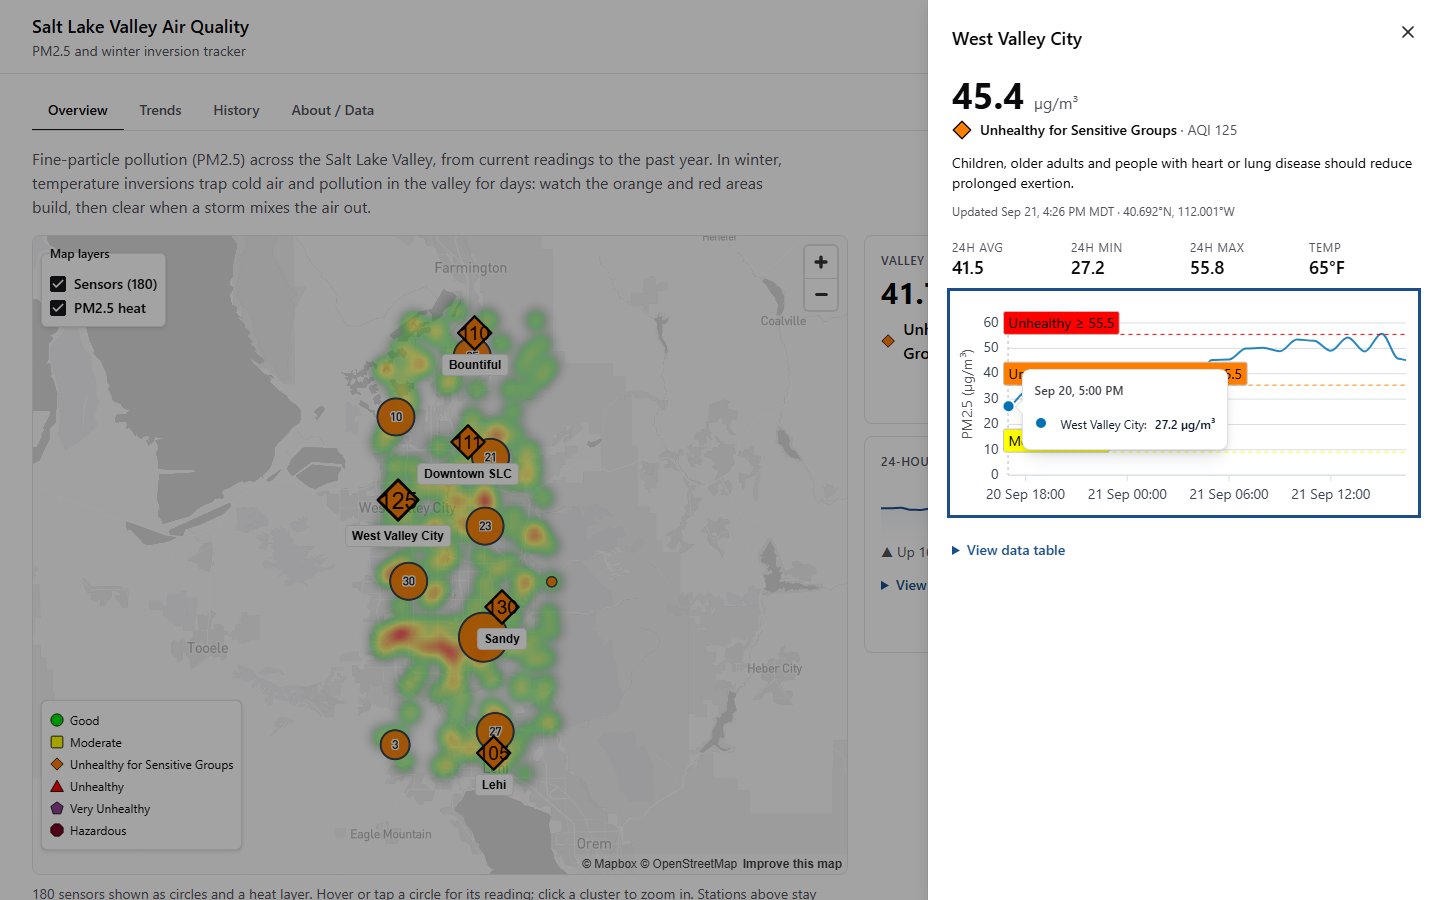
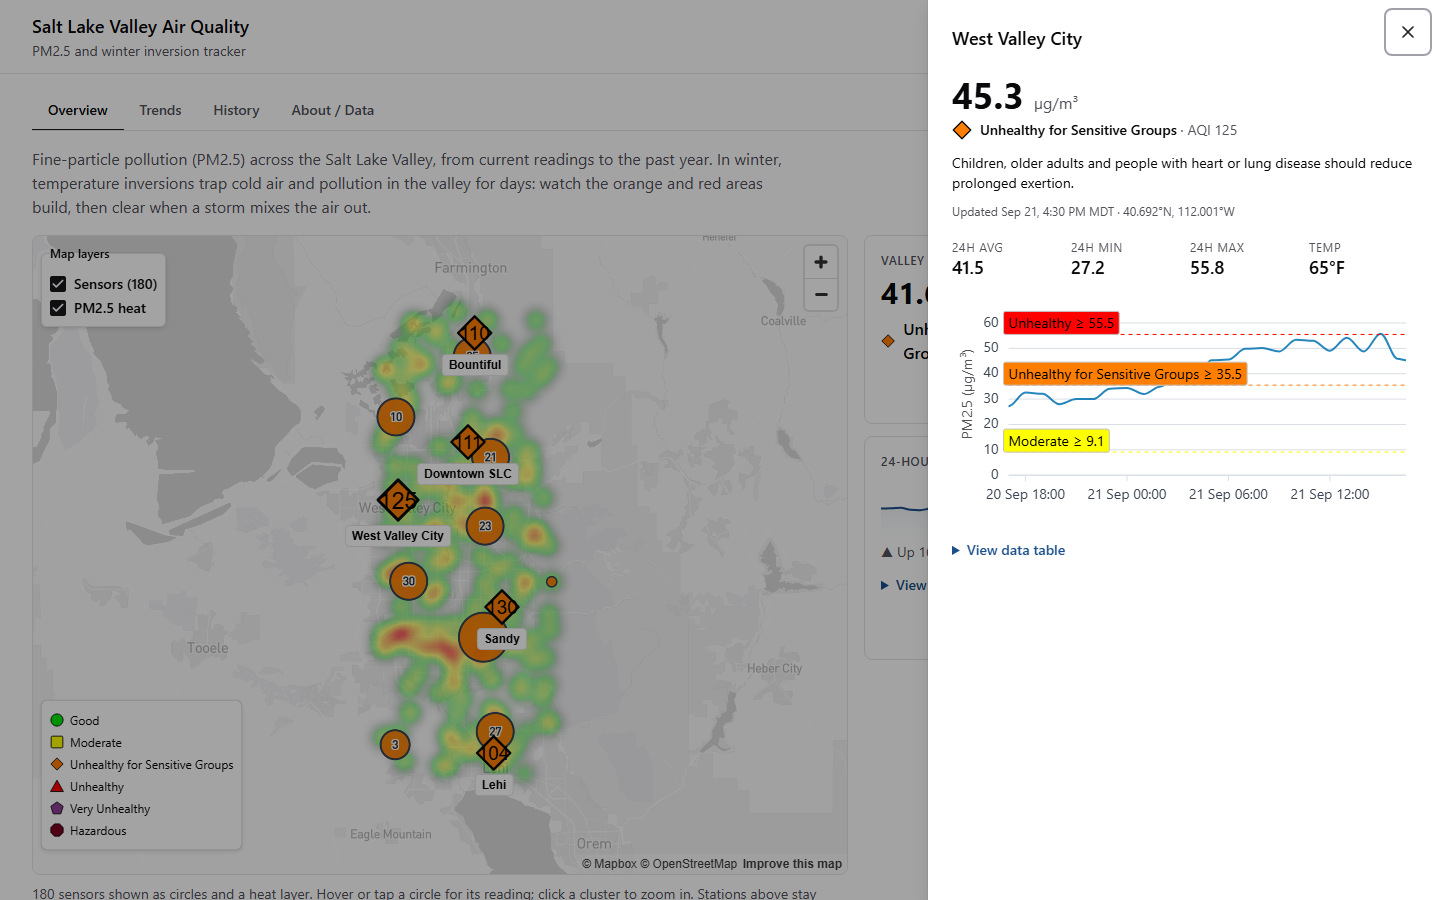
Add screenshots, audit results, and README updates
- docs/screenshots: overview (inversion demo, dark, live), station
  drawer, trends, history, and mobile, captured from the deployed site
  (?demo data for the inversion story, one real-data shot)
- README: screenshot gallery, ?demo link, Lighthouse before/after
  (mobile 44 -> 73-79, desktop 99 -> 100, accessibility 98 -> 100),
  axe-core results across 11 states (5 rule types -> 0), what the audit
  does not prove, updated bundle table and readiness status

diff --git a/README.md b/README.md
@@ -6,11 +6,50 @@ A React + TypeScript dashboard for current and historical PM2.5 across the Salt 
 winter inversion episodes. It runs out of the box on keyless data (Open-Meteo) or fully offline on
 inversion-shaped fixtures.
 
-**Live demo:** https://slc-air-quality-tracker.vercel.app (real PurpleAir sensors via a server-side proxy)
+**Live:** https://slc-air-quality-tracker.vercel.app (real PurpleAir sensors via a server-side proxy)
+· **Winter inversion demo:** https://slc-air-quality-tracker.vercel.app/?demo (simulated data, so the app's core
+story is visible in any season; the header shows a "Demo data" badge and a link back to live data)
 
 **Views:** Overview (map, KPI cards, station drawer) · Trends (Apex time series, range + station filters, live
 polling) · History (Plotly: calendar heatmap, monthly box plot, PM2.5-vs-temperature scatter) · About/Data
 (sources, methodology, AQI legend).
+
+## Screenshots
+
+Captured from the deployed site. All but the last desktop shot use the `?demo` data (a multi-day inversion that
+builds, clears, and builds again, plus 180 simulated sensors); the "live" shot is real PurpleAir data.
+
+**Overview: map layers, KPI cards.** A GeoJSON source with clustering and a heatmap layer, colored by AQI category;
+station markers are real buttons.
+
+![Overview with the inversion demo: clustered sensor layer, heatmap, station markers and KPI cards](docs/screenshots/overview-inversion.png)
+
+**Station drawer.** Opens from a marker (or the table), with 24-hour stats and an Apex chart with AQI guides.
+
+![Station drawer with details and a 24 hour chart](docs/screenshots/station-drawer.png)
+
+**Trends.** Apex time series: an inversion building, clearing, and building again (dashed lines mark AQI categories).
+
+![Trends view with a 7 day multi-station PM2.5 chart](docs/screenshots/trends.png)
+
+**History (Plotly).** Calendar heatmap, monthly box plot, and PM2.5 vs. temperature.
+
+![History view with a calendar heatmap, box plot and scatter](docs/screenshots/history.png)
+
+**Dark mode.** One token set drives Chakra, Apex, Plotly and the Mapbox basemap.
+
+![Overview in dark mode](docs/screenshots/overview-dark.png)
+
+**Live data.** Real PurpleAir sensors (in September the valley is mostly "Good").
+
+![Overview with live PurpleAir data](docs/screenshots/overview-live.png)
+
+**Mobile.**
+
+<p>
+  <img src="docs/screenshots/mobile-overview.png" alt="Mobile overview with the map and layers" width="280">
+  <img src="docs/screenshots/mobile-drawer.png" alt="Mobile station drawer as a bottom sheet" width="280">
+</p>
 
 ## Setup
 
@@ -78,23 +117,26 @@ src/
   the AQI number, the legend and tables show the category name, and the Plotly scatter uses matching marker
   symbols per category.
 - **Accessibility.** Skip link, tab semantics with keyboard navigation, focus-visible rings, labelled markers
-  (station, value, AQI, category), `role="img"` + labels on charts, a collapsible data table under every chart,
+  (station, value, AQI, category), labelled `role="group"` wrappers on charts (an image role can't contain their focusable toolbars), a collapsible data table under every chart,
   and focus returned to the marker when the drawer closes.
 - **Time zones.** Charts show Mountain Time for every viewer (`lib/format.ts` re-expresses instants as Mountain
   wall-clock time for libraries that only do UTC/local), and daily aggregation uses Mountain-time days.
 
 ### Bundle size (production build, gzip)
 
-| Chunk                                | Raw        | Gzip      | Loaded                         |
-| ------------------------------------ | ---------- | --------- | ------------------------------ |
-| App shell (React, Chakra, Apex, app) | 1,251 kB   | 367 kB    | Initial                        |
-| Chakra system                        | 274 kB     | 72 kB     | Initial                        |
-| `HistoryView` (Plotly cartesian)     | 1,449 kB   | 478 kB    | On opening History             |
-| `mapbox-gl`                          | 1,839 kB   | 510 kB    | On Overview, only with a token |
-| `MapPanel` + CSS                     | 29 + 49 kB | 11 + 6 kB | On Overview, only with a token |
+| Chunk                                  | Raw        | Gzip      | Loaded                                    |
+| -------------------------------------- | ---------- | --------- | ----------------------------------------- |
+| App shell (React, TanStack Query, app) | 310 kB     | 97 kB     | Initial                                   |
+| Chakra UI + theme                      | 268 kB     | 70 kB     | Initial                                   |
+| `react-apexcharts` (ApexCharts)        | 944 kB     | 270 kB    | Right after first paint (lazy)            |
+| `mapbox-gl`                            | 1,839 kB   | 510 kB    | Prefetched on Overview, only with a token |
+| `MapPanel` + CSS                       | 29 + 49 kB | 11 + 6 kB | Prefetched on Overview, only with a token |
+| `HistoryView` (Plotly cartesian)       | 1,449 kB   | 478 kB    | On opening History                        |
 
-Initial JS is about 439 kB gzipped. Plotly and Mapbox are each lazy-loaded via `React.lazy`. Apex and Chakra are
-the remaining bulk of the initial load; see "What I'd do next".
+The initial JavaScript is about **170 kB gzipped** (it was ~439 kB before Apex was lazy-loaded, which cut the entry
+bundle from 1,251 kB to 310 kB). Apex, Mapbox and Plotly are each `React.lazy`-loaded; Mapbox is prefetched as soon as
+the Overview mounts so its download overlaps the data requests instead of waiting for them. Note that Vercel returns
+403 for `.map` files, so production source maps aren't served.
 
 ### PurpleAir adapter
 
@@ -256,7 +298,7 @@ setup). The whole History view is `React.lazy`-loaded, so Plotly is only downloa
 - Built-in zoom, pan, box-select, hover and the modebar are used as-is, as specified, rather than reimplemented.
 - The scatter uses **shape plus color** per category (circle, square, diamond, ...), reusing the color-blind-safe
   encoding from the map markers.
-- Every chart has `role="img"` with a text summary and a data-table fallback.
+- Every chart has a labelled `role="group"` wrapper with a text summary and a data-table fallback.
 
 **Benefits:** statistical chart types out of the box, rich hover templates, and powerful interaction (zoom, pan,
 select) with no custom code. **Limits:** heavier and slower to re-render than Apex, so it's used for static
@@ -285,7 +327,7 @@ analysis rather than live data.
 
 ## Testing
 
-`npm test` runs Vitest + React Testing Library (133 tests):
+`npm test` runs Vitest + React Testing Library (134 tests):
 
 - AQI category boundaries (including EPA one-decimal truncation), AQI interpolation, and color/shape uniqueness
 - Mock provider: determinism, station filtering, inversion shape (buildup, peak, clearing), temperature coverage
@@ -311,6 +353,64 @@ supports, also recorded in `engines`):
 - Tests are hermetic (no keys or tokens needed), and the build needs no secrets.
 - **Recommended repo setting:** in GitHub, enable branch protection on `main` and require the `Check (Node 22)` and
   `Check (Node 24)` checks, so nothing merges red.
+
+## Performance and accessibility audit
+
+Measured on the deployed site with Lighthouse 13.5 (headless Chrome, default throttling; the mobile profile
+simulates a slow phone) and axe-core 4 (WCAG 2.0/2.1/2.2 A and AA plus best practices).
+
+### Lighthouse
+
+| Profile |        |           Performance | Accessibility | Best practices | SEO |
+| ------- | ------ | --------------------: | ------------: | -------------: | --: |
+| Mobile  | before |                    44 |            98 |            100 | 100 |
+| Mobile  | after  | **73, 79** (two runs) |       **100** |            100 | 100 |
+| Desktop | before |                    99 |            98 |            100 | 100 |
+| Desktop | after  |               **100** |       **100** |            100 | 100 |
+
+Mobile metrics, before to after: First Contentful Paint 4.0 s to 1.7-2.1 s, Largest Contentful Paint 4.4 s to
+1.7-2.1 s, Total Blocking Time 1,330 ms to ~800 ms, Cumulative Layout Shift 0.03 to 0.007. Lighthouse varies from run
+to run (the two "after" mobile runs are shown for that reason).
+
+What changed the numbers:
+
+- **Lazy-loaded ApexCharts** (entry bundle 1,251 kB to 310 kB) and **prefetching the map chunk** on mount.
+- **Static intro text** on the Overview. Every above-the-fold paint used to wait for the data, so Largest Contentful
+  Paint was whenever the data arrived; now the page has real content from first paint.
+- **More parallel proxied requests** (6 instead of 3; the responses are CDN-cached).
+
+**What's still slow on mobile:** Total Blocking Time and Time to Interactive (about 8 s on the throttled profile) are
+dominated by evaluating `mapbox-gl` (1.8 MB), which can't be tree-shaken. The map is core to the product, so I left it
+rather than hide it behind an interaction.
+
+Reproduce (no install needed beyond Chrome):
+
+```bash
+npx lighthouse https://slc-air-quality-tracker.vercel.app --preset=desktop --view
+npx lighthouse https://slc-air-quality-tracker.vercel.app --view
+```
+
+### axe-core (11 states)
+
+Scanned: desktop light (overview, station drawer, trends, history, about), desktop dark (overview, trends, history,
+about), and mobile light (overview, trends).
+
+|        | Violations                                                                                                                                                                                                                                                                                                                                                                    |
+| ------ | ----------------------------------------------------------------------------------------------------------------------------------------------------------------------------------------------------------------------------------------------------------------------------------------------------------------------------------------------------------------------------- |
+| Before | 5 rule types: heading order; interactive controls nested in `role="img"` (chart wrappers holding Apex/Plotly toolbars, and Mapbox's marker wrapper around the station buttons); insufficient contrast (Apex tooltip title, 4.0:1; white text on the red AQI shape, 4.0:1); a scrollable table region not reachable by keyboard; marker labels not matching their visible text |
+| After  | **0 in all 11 states**                                                                                                                                                                                                                                                                                                                                                        |
+
+Fixes: KPI headings to `h2`; chart wrappers to `role="group"`; Mapbox's generic marker `role`/label removed so the
+station button speaks for itself; marker names now start with the visible text ("AQI 112 Downtown SLC ..."); AQI
+text on the red shape black instead of white (5.25:1); Apex tooltip variable override; focusable, labelled table
+region; a real label element for the Trends time-range radio group; and the station drawer now opens with focus on
+its close button (it landed on the chart, showing a stray focus ring and tooltip).
+
+**What this does not prove.** Automated tools catch only a portion of accessibility problems. Text drawn over the
+map, SVG glyphs and chart canvases can't be checked by axe ("incomplete" results); I checked the AQI glyph text
+contrast by calculation instead (all six categories are at least 5.25:1). Keyboard operation of the drawer (open with
+Enter, focus on close, Escape, focus returns to the marker) was scripted, but I have **not** tested with a screen
+reader (NVDA, JAWS or VoiceOver) or on physical devices.
 
 ## Deployment
 
@@ -403,16 +503,16 @@ Status of what's needed before this should be called production-ready.
 | **Live-API verification**           | To do   | Open-Meteo and PurpleAir adapters are unit-tested with a fake `fetch` but haven't been run against the real services; test both                                                              |
 | **PurpleAir key proxy**             | Done    | Vercel Function with allowlist, CDN caching and a 150 req/min per-IP firewall rate limit (see above)                                                                                         |
 | **Mapbox token hygiene**            | To do   | Use a production-only public token, restrict it by URL, and monitor usage in the Mapbox dashboard                                                                                            |
-| **Accessibility audit**             | To do   | Built with keyboard/ARIA support and checked manually in a browser, but no axe/Lighthouse run and no screen-reader pass yet                                                                  |
+| **Accessibility audit**             | Partial | axe-core: 0 violations across 11 states; Lighthouse accessibility 100. Still to do: a real screen-reader pass (NVDA/VoiceOver) and physical-device testing (see the audit section)           |
 | End-to-end tests                    | To do   | Playwright for tabs, drawer open/close/focus, live toggle, dark mode; the map itself has no automated test                                                                                   |
 | Error monitoring                    | To do   | e.g. Sentry (a new dependency, so decide before adding)                                                                                                                                      |
 | Security headers / CSP              | Done    | Set in `vercel.json` (CSP tailored to Mapbox, nosniff, frame denial, referrer and permissions policies). Verify no violations in the browser console after each dependency change            |
 | Data terms and attribution          | To do   | Confirm Open-Meteo, PurpleAir and Mapbox terms for your use (Open-Meteo's free tier is for non-commercial use), keep Mapbox attribution visible, and keep the source links on the About page |
 | SEO/social metadata                 | To do   | Add Open Graph tags and a preview image to `index.html`                                                                                                                                      |
-| Bundle budget                       | Partial | Initial JS is ~437 kB gzip. Lazy-load Trends/Apex and split Chakra to trim it                                                                                                                |
+| Bundle budget                       | Done    | Initial JS ~170 kB gzip; Apex, Mapbox and Plotly are lazy. Mobile TBT is limited by mapbox-gl (see the audit section)                                                                        |
 | Dependency hygiene                  | To do   | Enable Dependabot/Renovate and run `npm audit` in CI                                                                                                                                         |
 | Health disclaimer                   | Partial | About page says the data is not for health decisions; add a short visible footnote on the Overview                                                                                           |
-| Portfolio polish                    | To do   | Add screenshots or a short GIF, a live-demo link, and a LICENSE to this README                                                                                                               |
+| Portfolio polish                    | Partial | Screenshots and live/demo links are in. Still to add: a LICENSE                                                                                                                              |
 
 ## What I'd do next
 
